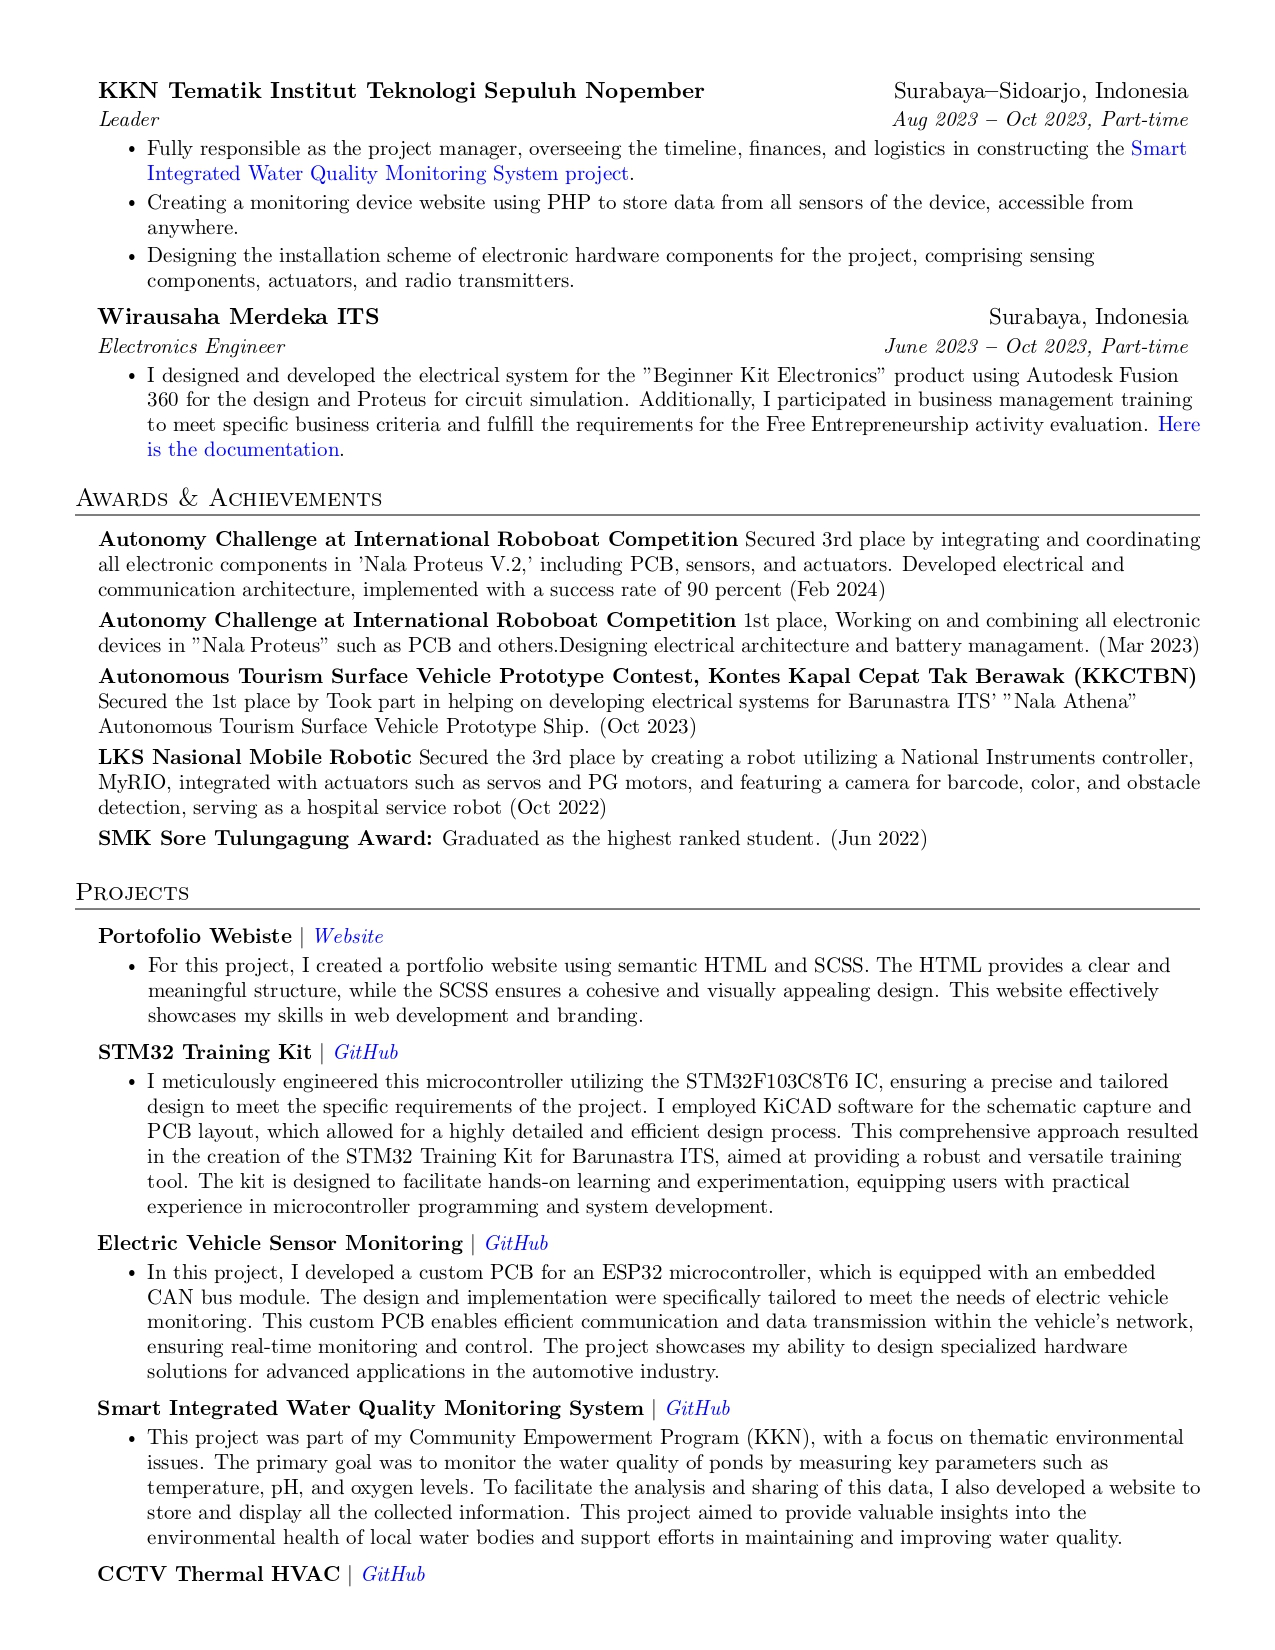
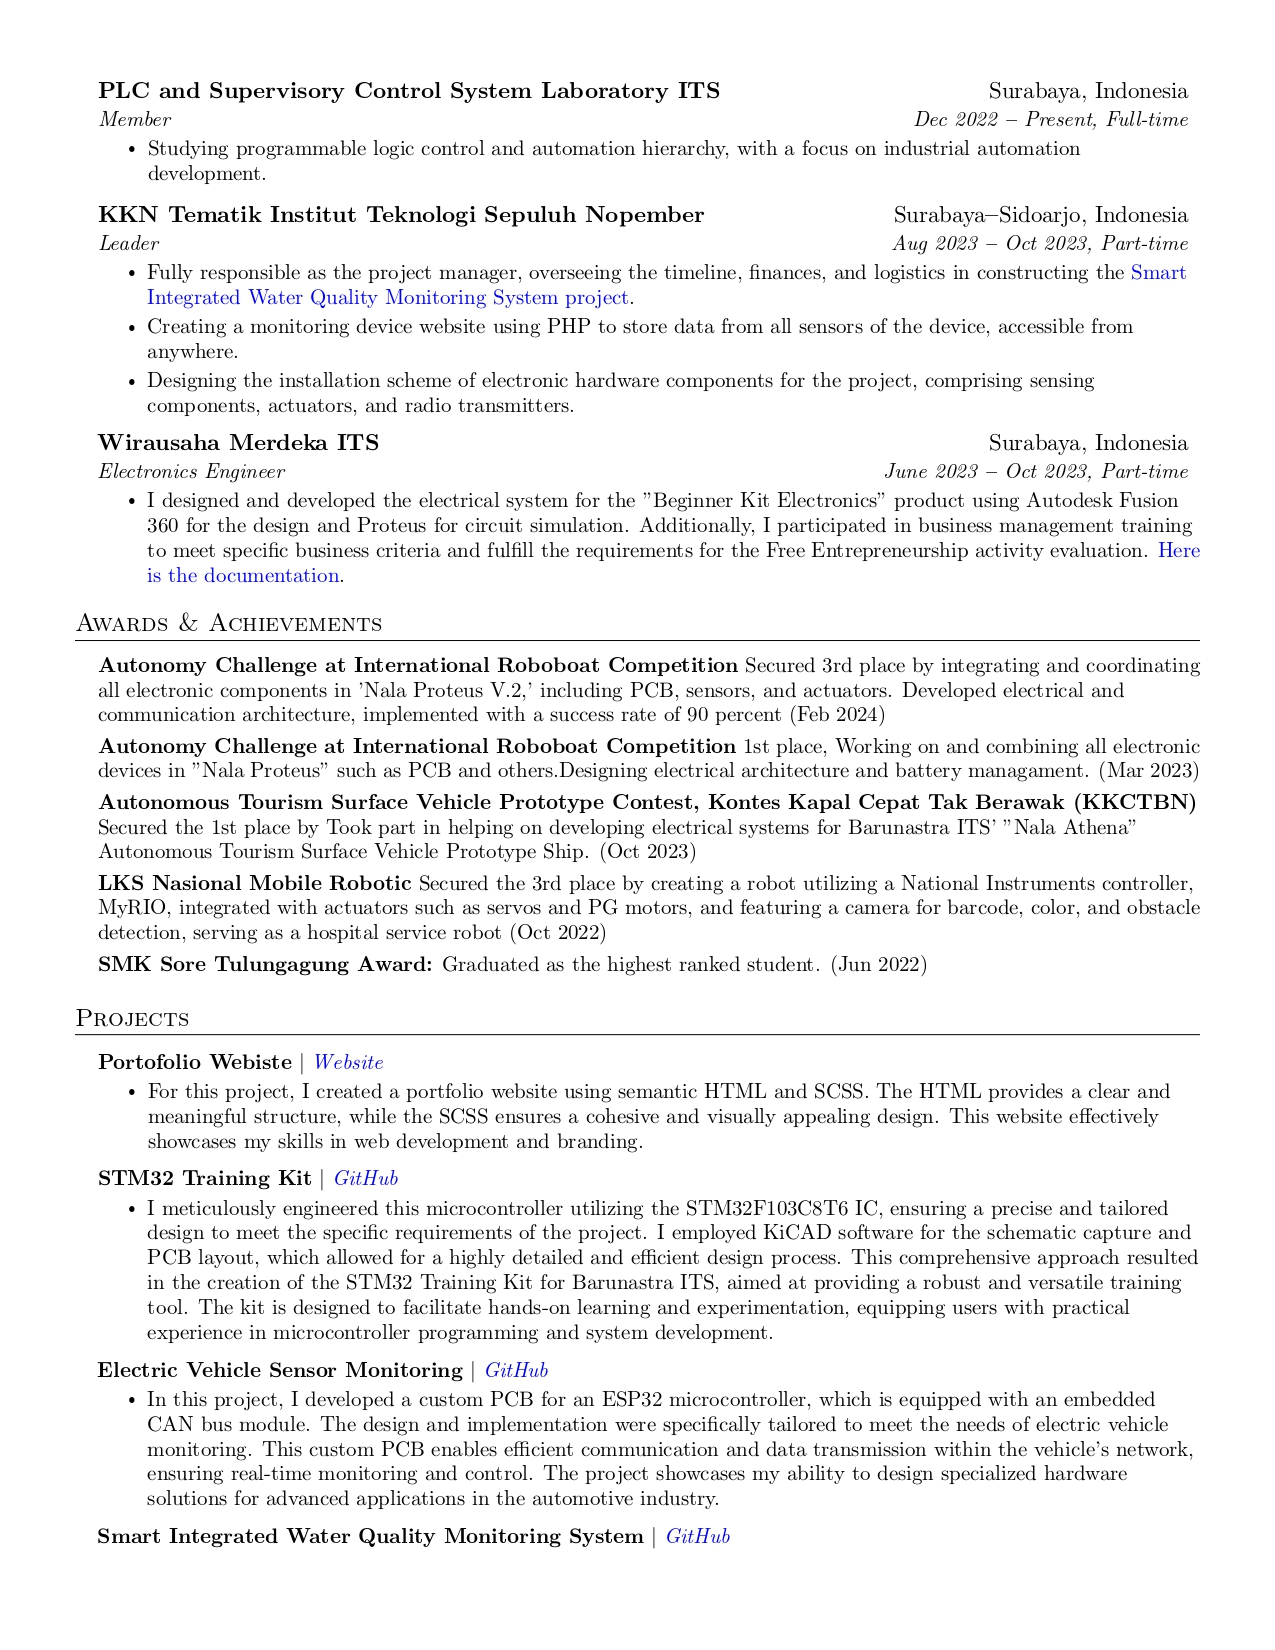
update

diff --git a/main.tex b/main.tex
@@ -238,6 +238,13 @@
             \resumeItem{Designing the installation scheme of electronic hardware components for the project, comprising sensing components, actuators, and radio transmitters.}
         \resumeItemListEnd
 
+    \resumeSubheading
+      {PLC and Supervisory Control System Laboratory ITS}{Surabaya, Indonesia}
+      {Member}{Dec 2022 \textbf{--} Present, Full-time}
+        \resumeItemListStart
+            \resumeItem{Studying programmable logic control and automation hierarchy, with a focus on industrial automation development.}
+        \resumeItemListEnd
+
     \vspace{2pt}
     \resumeSubheading
       {KKN Tematik Institut Teknologi Sepuluh Nopember}{Surabaya\textbf{--}Sidoarjo, Indonesia}
